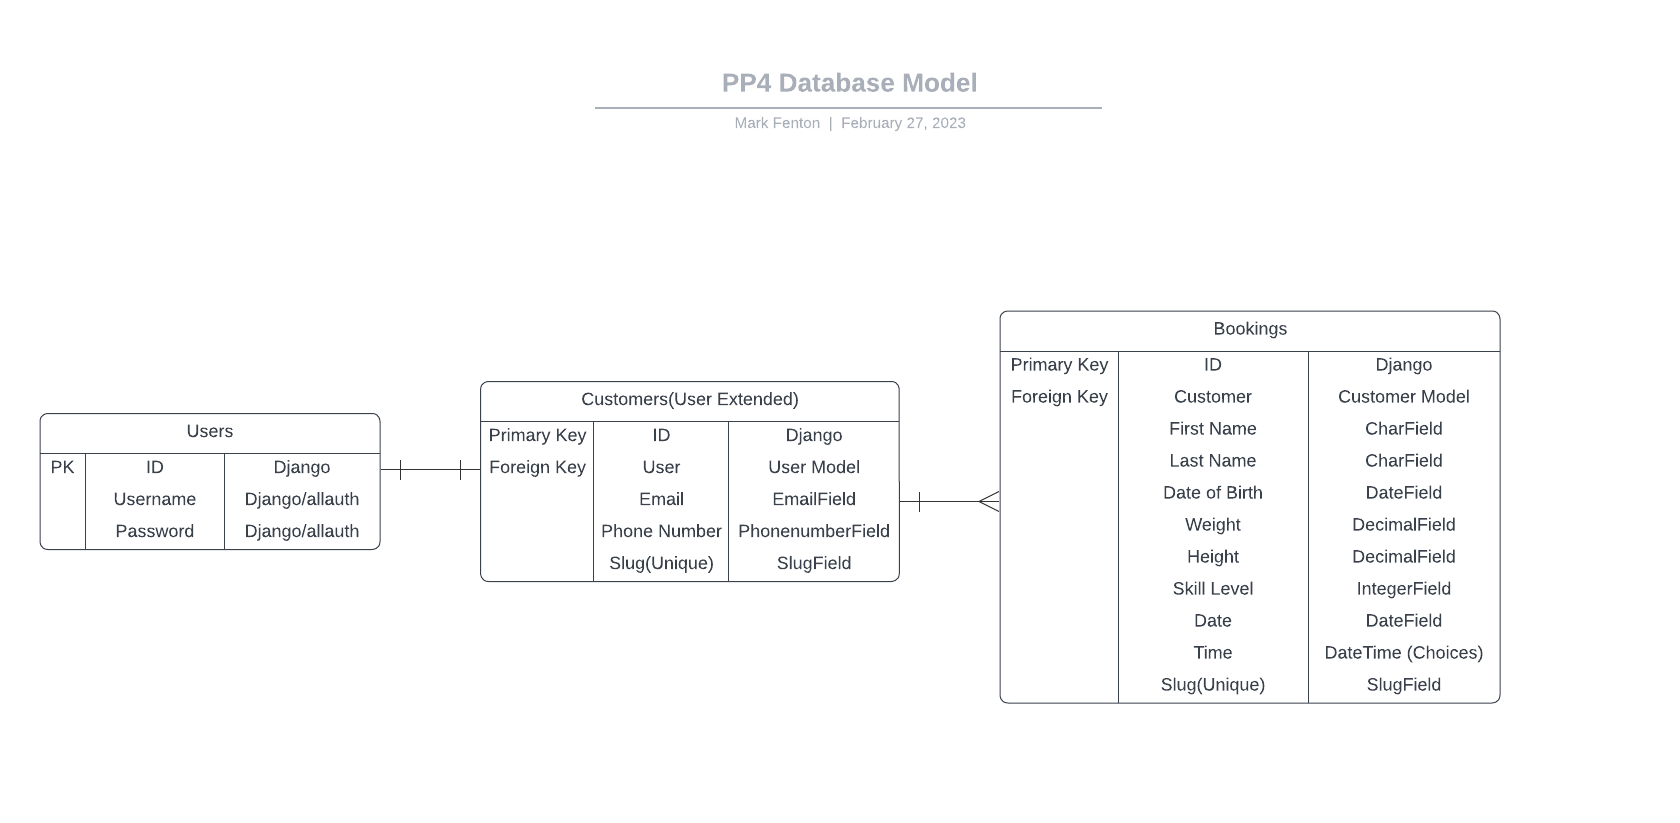
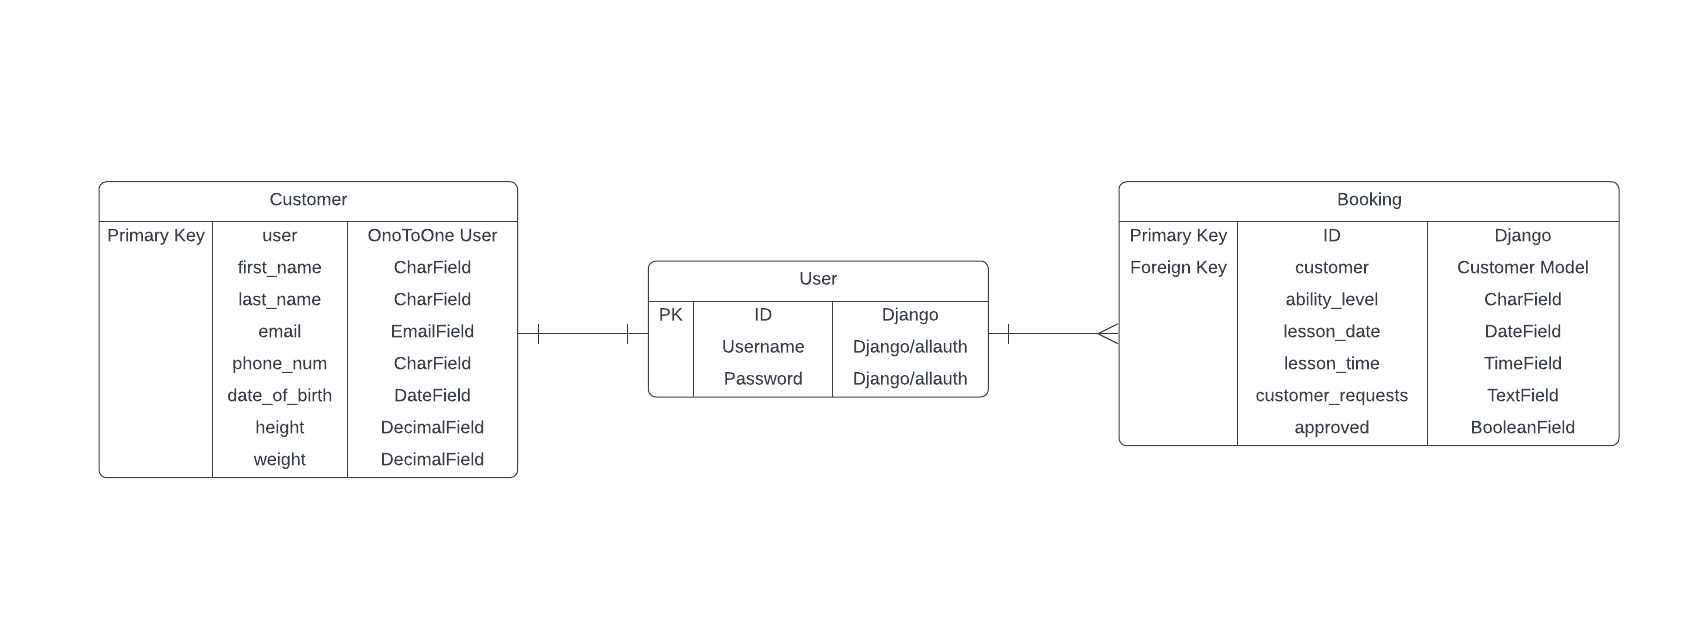
Update entity relationship diagram

diff --git a/README.md b/README.md
@@ -250,7 +250,7 @@ Therefore a color palette consisting of blues, browns, oranges, reds, and purple
 
 ## 7. Database Entity Relationship Diagram
 
-![Database ERD showing the 4 data models and their relationships](documents/database-erd.png "Database Entity Relationship Diagram")
+![Database ERD showing the 3 data models and their relationships](documents/database-erd.png "Database Entity Relationship Diagram")
 
 ## 8. Technology
 
@@ -948,17 +948,17 @@ Lighthouse was used to assess accessibility and performance. The results were fo
 
 ## 10. Deployment
 
-   ### 10.1 via github
+### 10.1 via GitHub
 
-1. The Code Institute project template was accessed on github at https://github.com/Code-Institute-Org/gitpod-full-template and the Use this Template button clicked to create a project-specific repository.
+1. The Code Institute project template was accessed on GitHub at https://github.com/Code-Institute-Org/gitpod-full-template and the Use this Template button clicked to create a project-specific repository.
 
 2. All files and documents pushed from Gitpod appear in the repository.
 
-### 10.2 via gitpod
+### 10.2 via Gitpod
 
-The site was developed in gitpod as follows:
+The site was developed in Gitpod as follows:
 
-1. From the github repository created for the project the Gitpod button installed as a chrome browser extension was clicked. A Gitpod workspace was created.
+1. From the GitHub repository created for the project the Gitpod button installed as a chrome browser extension was clicked. A Gitpod workspace was created.
 
 2. To view project progress during development the command python3 manage.py runserver was entered in the IDE terminal.
 
@@ -970,15 +970,15 @@ The site was developed in gitpod as follows:
 
 * Prior to deployment to Heroku, the settings.py file is updated to ensure that in the production version debug is set to False.
 
-* Prior to deployment to Heroku, the requirements.txt file is updated by typing the command pip3 freeze --local > requirements.txt to the terminal and following this all outstanding commits are pushed to the github repository.
+* Prior to deployment to Heroku, the requirements.txt file is updated by typing the command pip3 freeze --local > requirements.txt to the terminal and following this all outstanding commits are pushed to the GitHub repository.
 
 * In Heroku a new project is created to host the application.
 
-* Within this project in the settings section the Config Vars area is updated by adding variables contained locally in the env.py file including the urls for the database and the cloudinary storage as well as the django secret key.
+* Within this project in the settings section the Config Vars area is updated by adding variables contained locally in the env.py file including the URLs for the database and the Cloudinary storage as well as the django secret key.
 
 * In addition a key named PORT is created and it is given the value 8000.
 
-* In the Deploy section the option to connect to github is chosen, the repository name is found and clicked on.
+* In the Deploy section the option to connect to GitHub is chosen, the repository name is found and clicked on.
 
 * The option to deploy from the main branch is chosen and the project is deployed. This may take a few moments.
 
